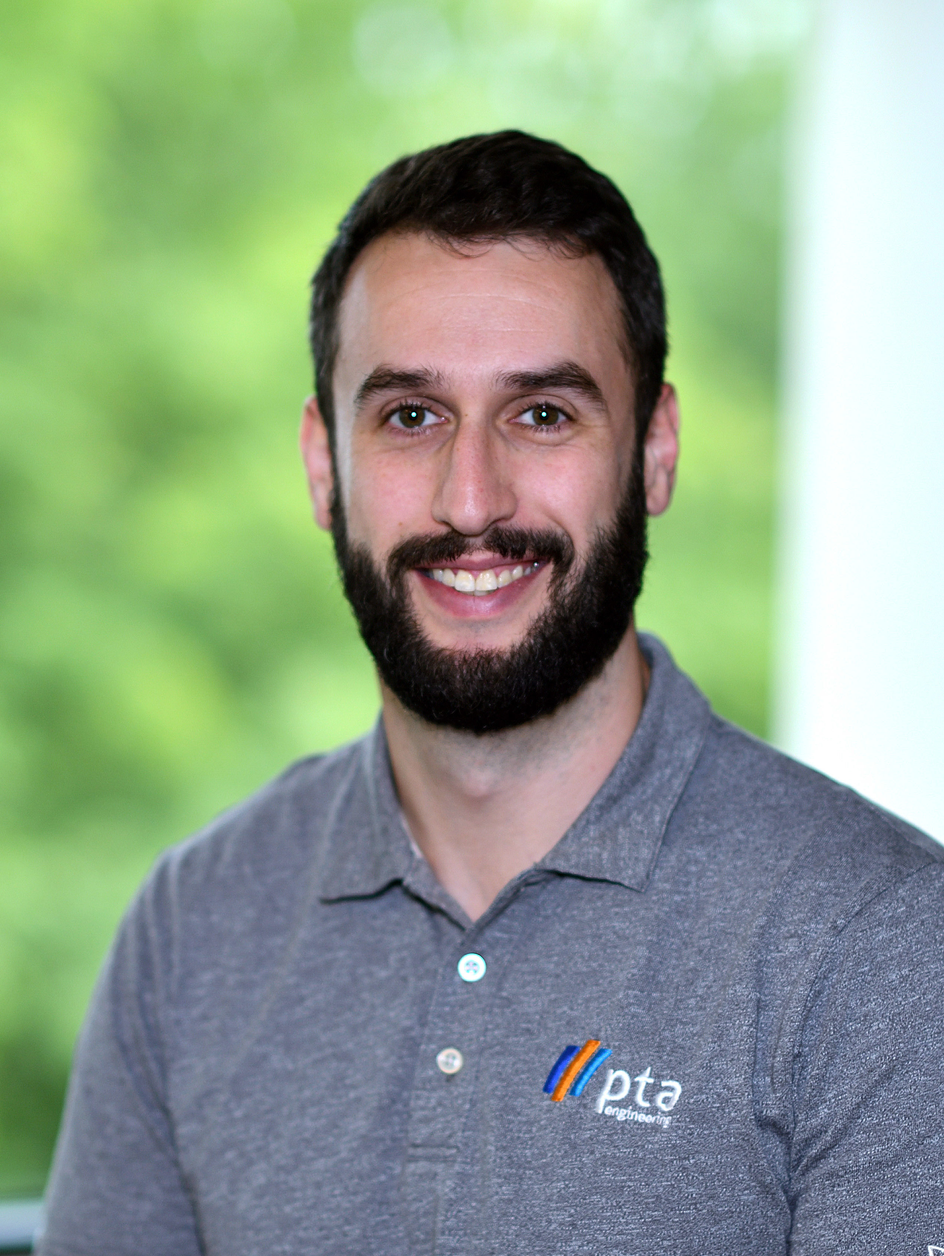
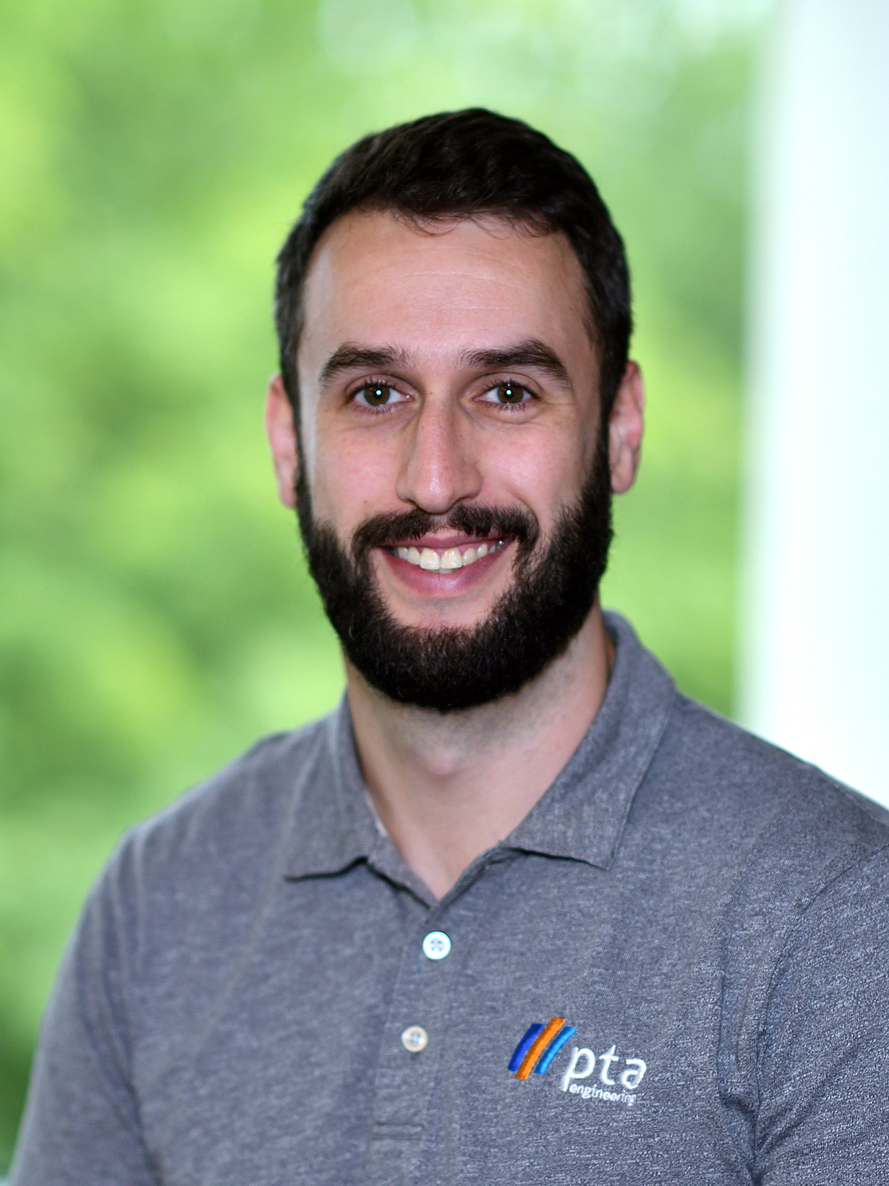
photo cropping, footer update

diff --git a/team.html b/team.html
@@ -51,8 +51,8 @@
   .nav-drawer a:hover, .nav-drawer a.active { color: var(--amber); }
 
   /* PAGE HERO */
-  .page-hero { margin-top: 80px; padding: 80px 40px; background: linear-gradient(135deg, var(--navy-mid) 0%, var(--navy) 60%, #1e3a56 100%); border-bottom: 6px solid var(--amber); }
-  .page-hero-inner { max-width: var(--max-w); margin: 0 auto; }
+  .page-hero { margin-top: 80px; padding: 80px 0; background: linear-gradient(135deg, var(--navy-mid) 0%, var(--navy) 60%, #1e3a56 100%); border-bottom: 6px solid var(--amber); }
+  .page-hero-inner { max-width: var(--max-w); margin: 0 auto; padding: 0 40px; }
   .eyebrow { font-family: 'Barlow Condensed', sans-serif; font-size: 13px; font-weight: 600; letter-spacing: 0.2em; text-transform: uppercase; color: var(--amber); margin-bottom: 16px; }
   .page-hero h1 { font-family: 'Barlow Condensed', sans-serif; font-weight: 700; text-transform: uppercase; font-size: clamp(48px, 7vw, 88px); line-height: 1; color: var(--white); margin-bottom: 24px; }
   .page-hero p { font-size: 18px; color: var(--muted); max-width: 700px; line-height: 1.7; }
@@ -81,8 +81,8 @@
   .team-title { font-size: 12px; color: var(--muted); }
 
   /* FOOTER CTA */
-  .footer-cta { background: var(--amber); padding: 64px 40px; }
-  .footer-cta-inner { max-width: var(--max-w); margin: 0 auto; display: flex; align-items: center; justify-content: space-between; gap: 32px; }
+  .footer-cta { background: var(--amber); padding: 64px 40px; text-align: center; }
+  .footer-cta-inner { max-width: var(--max-w); margin: 0 auto; display: flex; flex-direction: column; align-items: center; gap: 32px; }
   .footer-cta h2 { font-family: 'Barlow Condensed', sans-serif; font-weight: 700; text-transform: uppercase; font-size: clamp(36px, 5vw, 60px); color: var(--navy); line-height: 1; }
   .cta-btn { display: inline-block; padding: 16px 48px; background: var(--navy); color: var(--white); font-family: 'Barlow Condensed', sans-serif; font-weight: 700; font-size: 15px; letter-spacing: 0.12em; text-transform: uppercase; text-decoration: none; transition: background 0.2s; white-space: nowrap; }
   .cta-btn:hover { background: var(--navy-mid); }
@@ -102,13 +102,14 @@
   @media (max-width: 900px) { .principals-grid { grid-template-columns: repeat(3, 1fr); } .team-grid { grid-template-columns: repeat(3, 1fr); } }
   @media (max-width: 768px) {
     .nav-links { display: none; } .hamburger { display: flex; }
-    .page-hero { padding: 60px 24px; }
+    .page-hero { padding: 60px 0; }
+    .page-hero-inner { padding: 0 24px; }
     .team-section { padding: 48px 24px; }
     .section-divider { margin: 0 24px; }
     .principals-grid { grid-template-columns: repeat(2, 1fr); }
     .team-grid { grid-template-columns: repeat(2, 1fr); }
     .footer-cta { padding: 48px 24px; }
-    .footer-cta-inner { flex-direction: column; align-items: flex-start; }
+    .footer-cta-inner { flex-direction: column; align-items: center; text-align: center; }
     footer { padding: 40px 24px; }
     .footer-inner { flex-direction: column; align-items: flex-start; }
     .footer-right { text-align: left; }
@@ -146,7 +147,7 @@
 <!-- PAGE HERO -->
 <div class="page-hero">
   <div class="page-hero-inner">
-    <p class="eyebrow">Our People</p>
+    <p class="eyebrow" style="color: var(--amber);">Our People</p>
     <h1>The PTA<br>Team</h1>
     <p>Our team consists of engineers, designers, and technical professionals delivering precise, buildable MEP systems across the country.</p>
   </div>
@@ -308,7 +309,7 @@
 <!-- FOOTER CTA -->
 <section class="footer-cta">
   <div class="footer-cta-inner">
-    <h2>Let's Work<br>Together</h2>
+    <h2>Let's Work Together</h2>
     <a href="contact.html" class="cta-btn">Contact Us</a>
   </div>
 </section>

diff --git a/index.html b/index.html
@@ -210,15 +210,15 @@
   }
 
   /* FOOTER CTA */
-  .footer-cta { background: var(--amber); padding: 80px 40px; }
+  .footer-cta { background: var(--amber); padding: 64px 40px; text-align: center; }
   .footer-cta-inner {
     max-width: var(--max-w); margin: 0 auto;
-    display: flex; align-items: center; justify-content: space-between; gap: 32px;
+    display: flex; flex-direction: column; align-items: center; gap: 32px;
   }
   .footer-cta h2 {
     font-family: 'Barlow Condensed', sans-serif; font-weight: 700;
-    font-size: clamp(40px, 5vw, 72px); text-transform: uppercase;
-    line-height: 1; color: var(--navy);
+    font-size: clamp(36px, 5vw, 60px); text-transform: uppercase;
+    line-height: 1; color: var(--navy); margin-bottom: 0;
   }
   .cta-btn {
     display: inline-block; padding: 16px 48px;
@@ -262,7 +262,6 @@
     .grid-disciplines { grid-template-columns: repeat(2, 1fr); }
     .grid-sectors { grid-template-columns: repeat(2, 1fr); }
     .footer-cta { padding: 48px 24px; }
-    .footer-cta-inner { flex-direction: column; align-items: flex-start; }
     footer { padding: 40px 24px; }
     .footer-right { text-align: left; }
   }
@@ -422,7 +421,7 @@
 <!-- FOOTER CTA -->
 <section class="footer-cta">
   <div class="footer-cta-inner">
-    <h2>Let's Work<br>Together</h2>
+    <h2>Let's Work Together</h2>
     <a href="contact.html" class="cta-btn">Contact Us</a>
   </div>
 </section>
